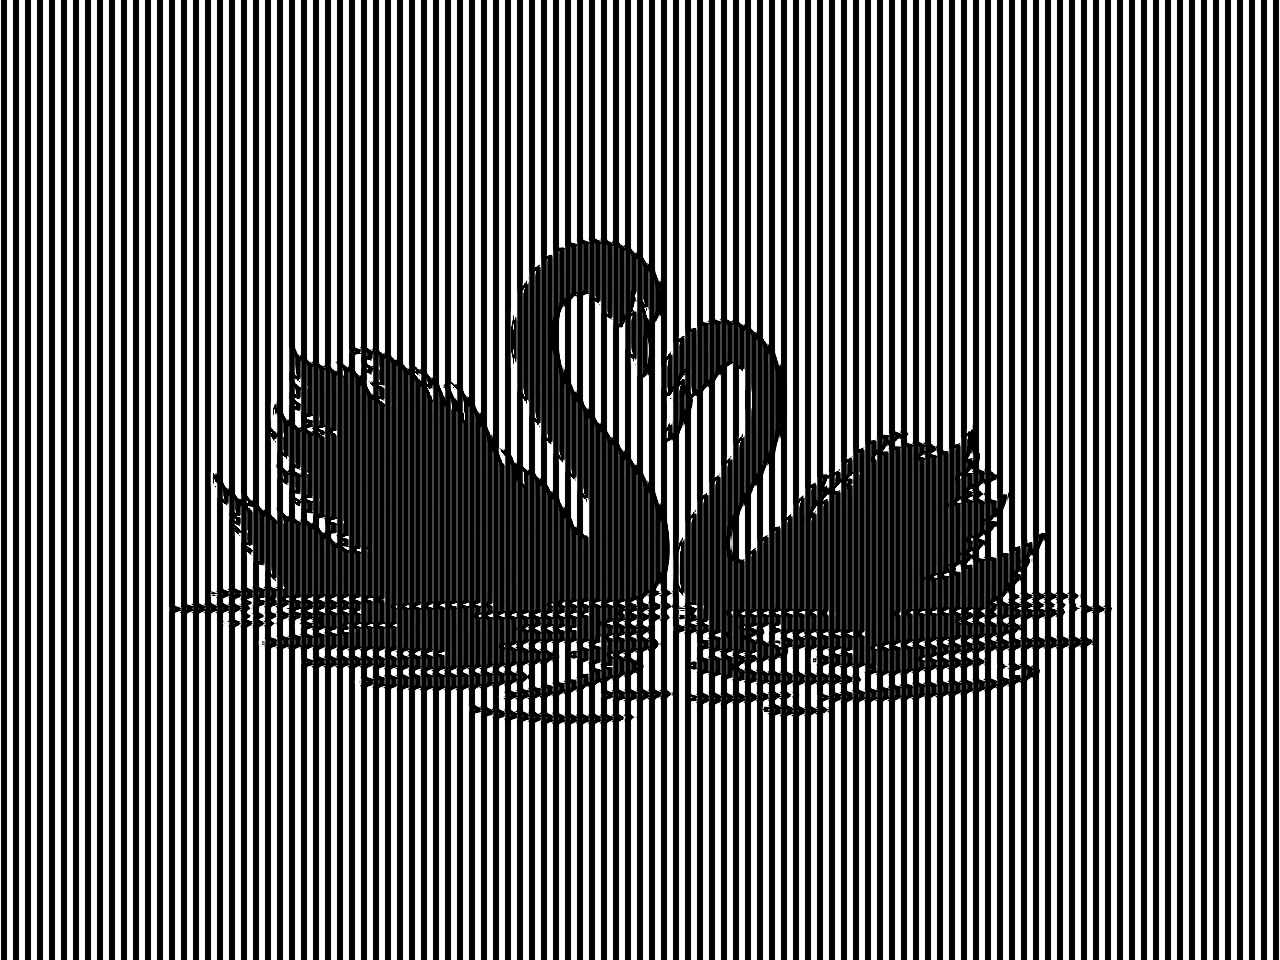
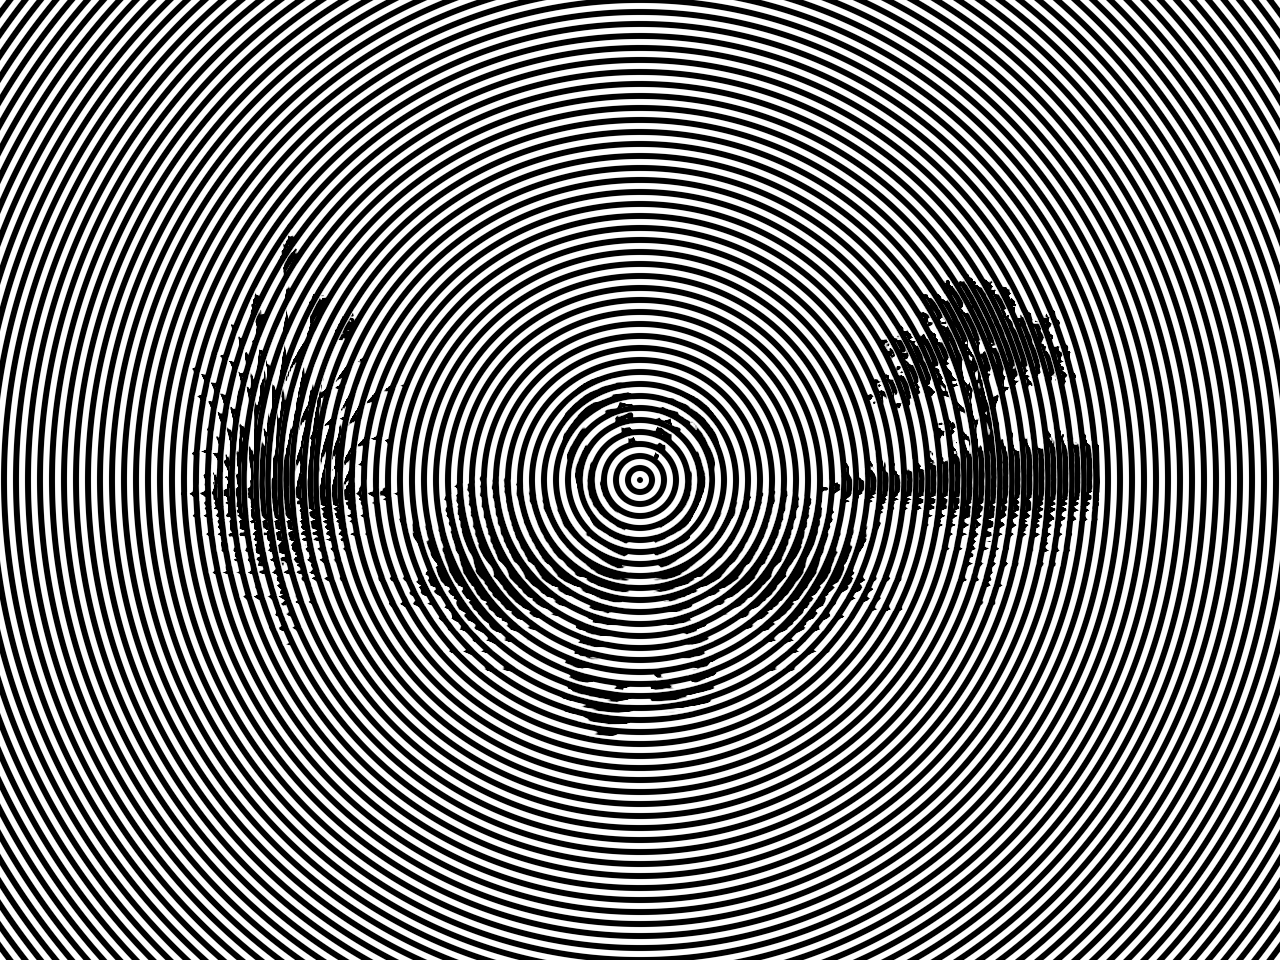
The inverse figure is now a grey-level drawing on concentric circles, generated by a scenes module in the repo.
The author supplied a grey-level drawing of two swans and asked for the figure on rings. It is a better exhibit than the silhouette on lines for two reasons the caption now states: the tent is linear in the offset up to one half, so the greys come through as greys, and concentric circles are a family no straight-grating construction reaches, which is the count map's point. The figure's six panels are the picture in the rings alone, the overlay in register, the overlay moved a quarter of a pitch with the picture riding on the two ring families' bands, and the shared picture as each layer's soft ripple alone and the pair in register. The outline panel is gone, since a drawing with shading has no single edge to outline, and the text keeps the amount dial in one sentence.

The panels are no longer scratch renders. paper/tools/exp/inverse-scenes.mjs is a scenes module for the zoo renderer -- the same field dials the editor exposes, on the picture stored at paper/figures/src/swans-grey.png as 512 px of luma over white, exactly what the field editor writes -- and one render command writes the six files into paper/figures through the app's capture path. AGENTS.md records the command.

diff --git a/paper/p3-instrument.tex b/paper/p3-instrument.tex
@@ -62,27 +62,28 @@ $D=\tfrac12(1-g)$, read from the picture in the copy's own coordinates,
 and the tent of Corollary~\ref{cor:cases} says what any pooling observer
 sees of the pair. The strokes align where the picture is white and
 interleave where it is black, so in register the overlay is the picture,
-at half contrast, and nothing else (Figure~\ref{fig:inverse}). The amount
-is a dial: a whole member of shift at black is invisible inside the figure,
-so only its edges, where the shift passes through one half, stay dark, and
-the same picture is drawn as an outline. Out of register the same two
-layers are the classical band moir\'e with the picture riding on it. A
-quarter of a pitch apart, the offset is one quarter outside the figure and
-three quarters inside, which the tent cannot tell apart, and the picture
-fades to its edges. Turned by under a degree, the bands of the rotation
-carry it as a displacement, and as the turn closes the bands widen until
-one of them is the whole frame and the picture is back. The construction
-is one line because the count is the object: the picture is a slow
-combination chosen by hand, and the base family is free.
+at half contrast, and nothing else (Figure~\ref{fig:inverse}), grey
+levels included, since the tent is linear in the offset up to one half.
+The amount is a dial: a whole member of shift at black is invisible inside
+a dark region, so only its edges, where the shift passes through one half,
+stay dark, and a silhouette is drawn as an outline. Out of register the
+same two layers are the classical band moir\'e with the picture riding on
+it. Moved a quarter of a pitch, the picture rides on the bands two ring
+families make; turned or moved further, the bands narrow and the picture
+dissolves into them, and as the motion closes the bands widen until one of
+them is the whole frame and the picture is back. The construction is one
+line because the count is the object: the picture is a slow combination
+chosen by hand, and the base family is free --- concentric circles in the
+figure, which no straight-grating method reaches.
 
 The picture can also be shared between the two layers, and the theory
 says exactly how well. A crisp picture needs the difference of the two
 shifts to jump by one half at every edge, so at least one layer jumps
 there, and the least either can jump is a quarter, in opposite directions:
-half the shift on each layer. Alone, each layer then changes only along
-the picture's edges, by a quarter of a pitch, and the tool bends that
-quarter over half a pitch rather than kinking it, so the lines make a
-gentle S and the overlay's edge softens by the same half pitch, a hair at
+half the shift on each layer. Alone, each layer then changes only where
+the picture changes, by at most a quarter of a pitch, and the tool bends
+that quarter over half a pitch rather than kinking it, so the members make
+a gentle S and the overlay's edges soften by the same half pitch, a hair at
 the scale of a picture (Figure~\ref{fig:inverse}, bottom row). Hiding the
 picture from a single layer altogether is possible --- it is visual
 cryptography~\cite{NaorShamir1994Visual} in the count's currency, and
@@ -98,22 +99,22 @@ being the picture's unmodulated twin.
   \centering
   \includegraphics[width=0.32\linewidth]{inverse-alone.png}\hfill
   \includegraphics[width=0.32\linewidth]{inverse-aligned.png}\hfill
-  \includegraphics[width=0.32\linewidth]{inverse-outline.png}\\[3pt]
-  \includegraphics[width=0.32\linewidth]{halves-a.png}\hfill
-  \includegraphics[width=0.32\linewidth]{halves-b.png}\hfill
-  \includegraphics[width=0.32\linewidth]{halves-aligned.png}
-  \caption{\figlead{The inverse problem, in the tool.} Top row, one layer
-  carries the picture as the index shift $D=\tfrac12(1-g)$. Alone (left),
-  the picture is in the lines. Over its unmodulated twin in register
-  (middle), the strokes interleave where the picture is black and the
-  overlay is the picture. With a whole member of shift at black and the
-  edges softened (right), the inside is invisible and the picture is an
-  outline. Bottom row, the picture shared: each layer takes a quarter of a
-  pitch, one way (left) and the other (middle), bent over half a pitch, so
-  alone each shows only a soft ripple along the edges; in register (right)
-  the halves add to one half and the picture is back, crisp to half a
-  pitch. Rendered by the tool's capture path from scenes the field editor
-  writes.}
+  \includegraphics[width=0.32\linewidth]{inverse-quarter.png}\\[3pt]
+  \includegraphics[width=0.32\linewidth]{inverse-halves-a.png}\hfill
+  \includegraphics[width=0.32\linewidth]{inverse-halves-b.png}\hfill
+  \includegraphics[width=0.32\linewidth]{inverse-halves-aligned.png}
+  \caption{\figlead{The inverse problem, in the tool.} A grey-level
+  drawing on a family of concentric circles. Top row, one layer carries the
+  picture as the index shift $D=\tfrac12(1-g)$. Alone (left), the picture
+  is in the rings. Over its unmodulated twin in register (middle), the rings
+  interleave in proportion to the darkness and the overlay is the picture,
+  greys and all. Moved a quarter of a pitch (right), the picture rides on
+  the bands the two ring families make. Bottom row, the picture shared:
+  each layer takes a quarter of the shift, one way (left) and the other
+  (middle), bent over half a pitch, so alone each shows only a soft ripple
+  where the picture changes; in register (right) the quarters add to one
+  half and the picture is back. Rendered by the tool's capture path from
+  scenes the field editor writes (\texttt{inverse-scenes.mjs}).}
   \label{fig:inverse}
 \end{figure}
 

diff --git a/AGENTS.md b/AGENTS.md
@@ -94,7 +94,7 @@ The ladder is now a THEOREM, not a taxonomy. §3.2 "Where the rungs come from": 
 
 The paper's spine is the integrability ladder: `sec-field.tex` is §3 "A pattern is a counting map" (the object, the exact/winding/fold taxonomy in `sec:taxonomy`, the catalog absorbed as subsections `sec:catalog`/`sec:offrung`), `sec-super.tex` is §4 Superposition (law → criterion → selection → envelope → verification, in that order), `sec-defects.tex` is §5, walking/inverse are the fold rung. `sec-catalog.tex` is deleted — do not resurrect it; the old subsection labels all survived the move, so cross-refs and the supplemental's `xr` links did not change.
 
-PAPER 3 IS THE PAPER (`paper/paper3.tex`, sections `p3-*.tex`, design in `paper/notes/paper3-plan.md`; build `cd paper && tectonic -X compile paper3.tex --outdir build`): the theory of beating written from the ground up for a college reader — one new idea per section in the order instance, name, picture, formula, formula-in-words, theorem with the idea of its proof, experiment, try-it; a budget of eight Lookup boxes each naming the outside fact, the one consequence used, and the query to type; every symbol in one table (§2). `tools/numbers.mjs` generates its ear macros (`ear*`), `tab-stations.tex` and the domain-column `tab-predictions3.tex`, and refuses over a failing `ear.mjs` gate; `tools/exp/ear-figs.mjs` writes the ear CSVs. `tools/exp/wagonwheel.mjs` is the third domain (a strobe: the sampler is a family whose picture is a comb, so only the spoke profile's harmonics are priced; the reversal is exact, the doubled still wheel at half the frame rate is carried by the second harmonic and dies at spoke duty 1/2, the tripled at f/3 dies at 1/3 and 2/3; frame offsets are placed on the position grid exactly, because a float modulo at a hard edge reads as a 6e-4 residual and fails a null gate). `paper/tools/exp/countmap-figs.mjs` generates Figure 2, the count map: five PNG panels in `paper/figures/countmap-*.png` and the TikZ assembly `paper/fig-countmap.tex`, all from the field library's own index functions (`family(cfg).index(p)`), with the state, the torus path and the member numbers computed rather than drawn; rerun it after touching the families or the layout. `paper/tools/exp/inverse-moire.mjs` is the inverse problem: a target PNG (silhouette or grey levels) in, two layers out whose overlay shows it -- the second family's count is the first's minus the offset field D = d(1-g), on a wobbly base family that camouflages the modulation -- and it prints the fold check (the second family's rate must stay positive) and the fit of the pooled overlay to the theory's tent; `--out DIR` is required, `--split` halves the offset across both layers. `paper/tutorial.tex` (build the same way) is the paper's tutorial companion: every Lookup box taught from calculus, linear algebra and probability in fifteen parts with worked checks — counts, the torus, complex waves and the one integral, Fourier series with the pulse train derived, conditional expectation as a probabilist says it, gradients and the Jacobian, convolution and the window's response, front ends, continued fractions with the error formula proved, Lagrange–Gauss reduction with a worked ten-degree example, the implicit function theorem and folds with gauges and the Mach condition, winding and covering with the bands-must-end argument, symmetry and quotients with Weyl's theorem by waves, sampling as a comb family, and a glossary. Three reader tests have run (sections 1–3, 4–6, 7–9); each found real errors (a flipped ratio convention in the duty-null theorem, a recipe sum in the cascade proof that gave (1,0,-1), a corollary applied outside its hypothesis, the priced merit reusing eta and the four-members-per-band threshold, a cascade theorem that needs pure tones and did not say so, an unexplained incidence F, a placeholder URL undercutting the ledger) and each was applied in full before moving on. THE READER TEST is the discipline: after drafting a section, a fresh agent that has read nothing else reads it as a second-year student and lists every sentence it could not follow, every symbol met before its instance, every lookup needed, and whether it reads as a moiré paper; fix before writing the next section. The first test found a wrong heterodyne-ratio denominator (the paper's own sum example gave 38, not 2; the denominator is now half the sum of the harmonics' rate magnitudes, which agrees with the shader's form on every slow recipe), two drawing bugs in the TikZ figures (a 10:11 vernier captioned 10:9; a torus segment not parallel to the slow level lines), and a false pen-width claim. Paper 2 is scrapped as a paper and kept as a source of theorem statements. THE THEORY, in the author's own terms, is in `paper/notes/beating.md` (read it before either paper): beating as emergence — families have counts, a superposition is a joint count on a torus, pooling sees the quotient, the emergent pattern is itself a family. `paper/tools/exp/ear.mjs` is the first experiment outside moiré (an ear model on aired pulse trains; every prediction gated; signals synthesised additively because sampled edges beat with the sample grid and the first cut measured that). The author judged paper2.tex as drafted a follow-up to the moiré paper rather than its own; expect a third paper built from beating.md. Paper 2 (`paper/paper2.tex`, sections `p2-*.tex`, provisional article class) builds with `cd paper && tectonic -X compile paper2.tex --outdir build`; its figures come from `dutynull-figs.mjs`, `exposure-figs.mjs` and `quilt-figs.mjs` (the last through render.mjs's `decide` hook, which lets a figure make the sum-or-difference choice from a two-pixel fractional-index estimate — the only legitimate use of that estimator), its §5 is `tab-predictions.tex` generated by numbers.mjs, and the HTML converter does not know it yet. The paper-2 experiments live beside foldlaw in `paper/tools/exp/` and write `paper/data/*.json` with a `gates` record that numbers.mjs refuses to build over: `dutynull.mjs` (station nulls at rational coarse duty, 2:1 and 3:1), `exposure.mjs` (temporal selection by rate vector), `observer.mjs` (the observer theorem of `paper/notes/observer.md`: window = torus multiplier, who sees a beat, hard ink observer-proof, soft ink reopens nulls). THE STATION IS THE SLOW CHARACTER: a p:q pair (coarse : fine) beats visibly in (q, −p), q times the coarse index minus p times the fine, and a script that projects onto (1,−2) of a 16.4:8 pair measures a period-5.3 coefficient that is no fringe — both first cuts did, their numbers were real and their narrative wrong, and observer.mjs gate 0 now pins the slowness. Strips are sized to a whole number of every period (328 world units for both exhibit pairs) so a projection is an exact coefficient, not a leaky one.
+PAPER 3 IS THE PAPER (`paper/paper3.tex`, sections `p3-*.tex`, design in `paper/notes/paper3-plan.md`; build `cd paper && tectonic -X compile paper3.tex --outdir build`): the theory of beating written from the ground up for a college reader — one new idea per section in the order instance, name, picture, formula, formula-in-words, theorem with the idea of its proof, experiment, try-it; a budget of eight Lookup boxes each naming the outside fact, the one consequence used, and the query to type; every symbol in one table (§2). `tools/numbers.mjs` generates its ear macros (`ear*`), `tab-stations.tex` and the domain-column `tab-predictions3.tex`, and refuses over a failing `ear.mjs` gate; `tools/exp/ear-figs.mjs` writes the ear CSVs. `tools/exp/wagonwheel.mjs` is the third domain (a strobe: the sampler is a family whose picture is a comb, so only the spoke profile's harmonics are priced; the reversal is exact, the doubled still wheel at half the frame rate is carried by the second harmonic and dies at spoke duty 1/2, the tripled at f/3 dies at 1/3 and 2/3; frame offsets are placed on the position grid exactly, because a float modulo at a hard edge reads as a 6e-4 residual and fails a null gate). `paper/tools/exp/countmap-figs.mjs` generates Figure 2, the count map: five PNG panels in `paper/figures/countmap-*.png` and the TikZ assembly `paper/fig-countmap.tex`, all from the field library's own index functions (`family(cfg).index(p)`), with the state, the torus path and the member numbers computed rather than drawn; rerun it after touching the families or the layout. `paper/tools/exp/inverse-moire.mjs` is the inverse problem: a target PNG (silhouette or grey levels) in, two layers out whose overlay shows it -- the second family's count is the first's minus the offset field D = d(1-g), on a wobbly base family that camouflages the modulation -- and it prints the fold check (the second family's rate must stay positive) and the fit of the pooled overlay to the theory's tent; `--out DIR` is required, `--split` halves the offset across both layers. The paper's inverse figure is `node tests/zoo/render.mjs paper/tools/exp/inverse-scenes.mjs paper/figures --scale 2`: the grey swans of `paper/figures/src/swans-grey.png` (512 px of luma over white, what the field editor stores) on concentric circles, one layer and shared, six panels named `inverse-*.png` written straight into `paper/figures` through the app's capture path. `paper/tutorial.tex` (build the same way) is the paper's tutorial companion: every Lookup box taught from calculus, linear algebra and probability in fifteen parts with worked checks — counts, the torus, complex waves and the one integral, Fourier series with the pulse train derived, conditional expectation as a probabilist says it, gradients and the Jacobian, convolution and the window's response, front ends, continued fractions with the error formula proved, Lagrange–Gauss reduction with a worked ten-degree example, the implicit function theorem and folds with gauges and the Mach condition, winding and covering with the bands-must-end argument, symmetry and quotients with Weyl's theorem by waves, sampling as a comb family, and a glossary. Three reader tests have run (sections 1–3, 4–6, 7–9); each found real errors (a flipped ratio convention in the duty-null theorem, a recipe sum in the cascade proof that gave (1,0,-1), a corollary applied outside its hypothesis, the priced merit reusing eta and the four-members-per-band threshold, a cascade theorem that needs pure tones and did not say so, an unexplained incidence F, a placeholder URL undercutting the ledger) and each was applied in full before moving on. THE READER TEST is the discipline: after drafting a section, a fresh agent that has read nothing else reads it as a second-year student and lists every sentence it could not follow, every symbol met before its instance, every lookup needed, and whether it reads as a moiré paper; fix before writing the next section. The first test found a wrong heterodyne-ratio denominator (the paper's own sum example gave 38, not 2; the denominator is now half the sum of the harmonics' rate magnitudes, which agrees with the shader's form on every slow recipe), two drawing bugs in the TikZ figures (a 10:11 vernier captioned 10:9; a torus segment not parallel to the slow level lines), and a false pen-width claim. Paper 2 is scrapped as a paper and kept as a source of theorem statements. THE THEORY, in the author's own terms, is in `paper/notes/beating.md` (read it before either paper): beating as emergence — families have counts, a superposition is a joint count on a torus, pooling sees the quotient, the emergent pattern is itself a family. `paper/tools/exp/ear.mjs` is the first experiment outside moiré (an ear model on aired pulse trains; every prediction gated; signals synthesised additively because sampled edges beat with the sample grid and the first cut measured that). The author judged paper2.tex as drafted a follow-up to the moiré paper rather than its own; expect a third paper built from beating.md. Paper 2 (`paper/paper2.tex`, sections `p2-*.tex`, provisional article class) builds with `cd paper && tectonic -X compile paper2.tex --outdir build`; its figures come from `dutynull-figs.mjs`, `exposure-figs.mjs` and `quilt-figs.mjs` (the last through render.mjs's `decide` hook, which lets a figure make the sum-or-difference choice from a two-pixel fractional-index estimate — the only legitimate use of that estimator), its §5 is `tab-predictions.tex` generated by numbers.mjs, and the HTML converter does not know it yet. The paper-2 experiments live beside foldlaw in `paper/tools/exp/` and write `paper/data/*.json` with a `gates` record that numbers.mjs refuses to build over: `dutynull.mjs` (station nulls at rational coarse duty, 2:1 and 3:1), `exposure.mjs` (temporal selection by rate vector), `observer.mjs` (the observer theorem of `paper/notes/observer.md`: window = torus multiplier, who sees a beat, hard ink observer-proof, soft ink reopens nulls). THE STATION IS THE SLOW CHARACTER: a p:q pair (coarse : fine) beats visibly in (q, −p), q times the coarse index minus p times the fine, and a script that projects onto (1,−2) of a 16.4:8 pair measures a period-5.3 coefficient that is no fringe — both first cuts did, their numbers were real and their narrative wrong, and observer.mjs gate 0 now pins the slowness. Strips are sized to a whole number of every period (328 world units for both exhibit pairs) so a projection is an exact coefficient, not a leaky one.
 
 Printed parallel carriers share `GOLDEN_CARRIER` in `paper/tools/lib/fields.mjs` (`−atan(1/φ)` off vertical): a vertical hairline family beats against the page raster and the screen, and the golden slope is the angle worst approximated by rational pixel runs. The CPU envelope sweeps a lattice by `cellShift` (both twist layers share the tap's `(u, {kφ})` in their own frames, so the matched differences survive); hairline lattice ink is a hit-or-miss integrand under that rank-1 rule, so the residue falls like 1/taps rather than washing at the scalars' two dozen — the teaser's hex-twist panel runs `taps: 384` (per-scene override) to resolve the coincidence-spot superlattice. Radial figure layers want `spacing: 1` (ψ is already in member units, so integer level sets are true fringes and the atan2 cut jumps by an exact integer) and the analytic `gradVec` — finite differences across the cut silently erase half a figure's ladder.
 
